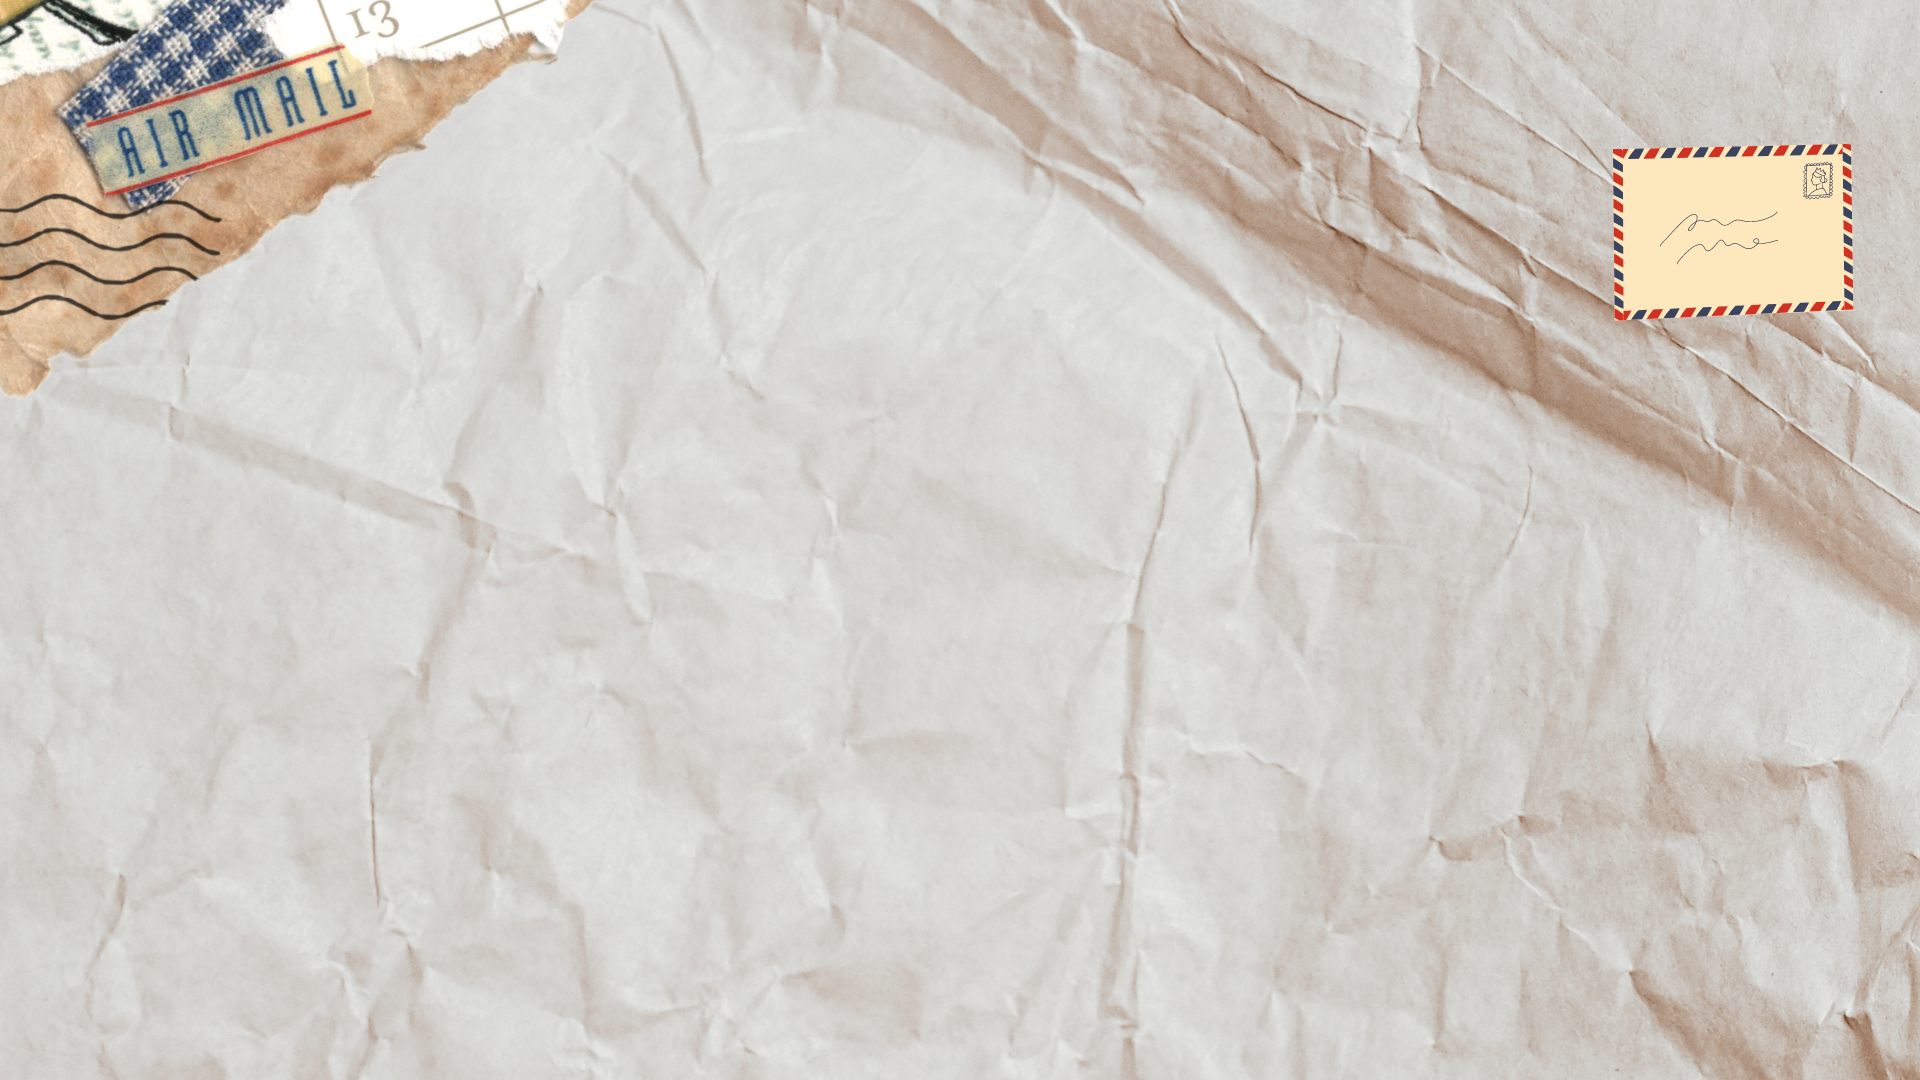
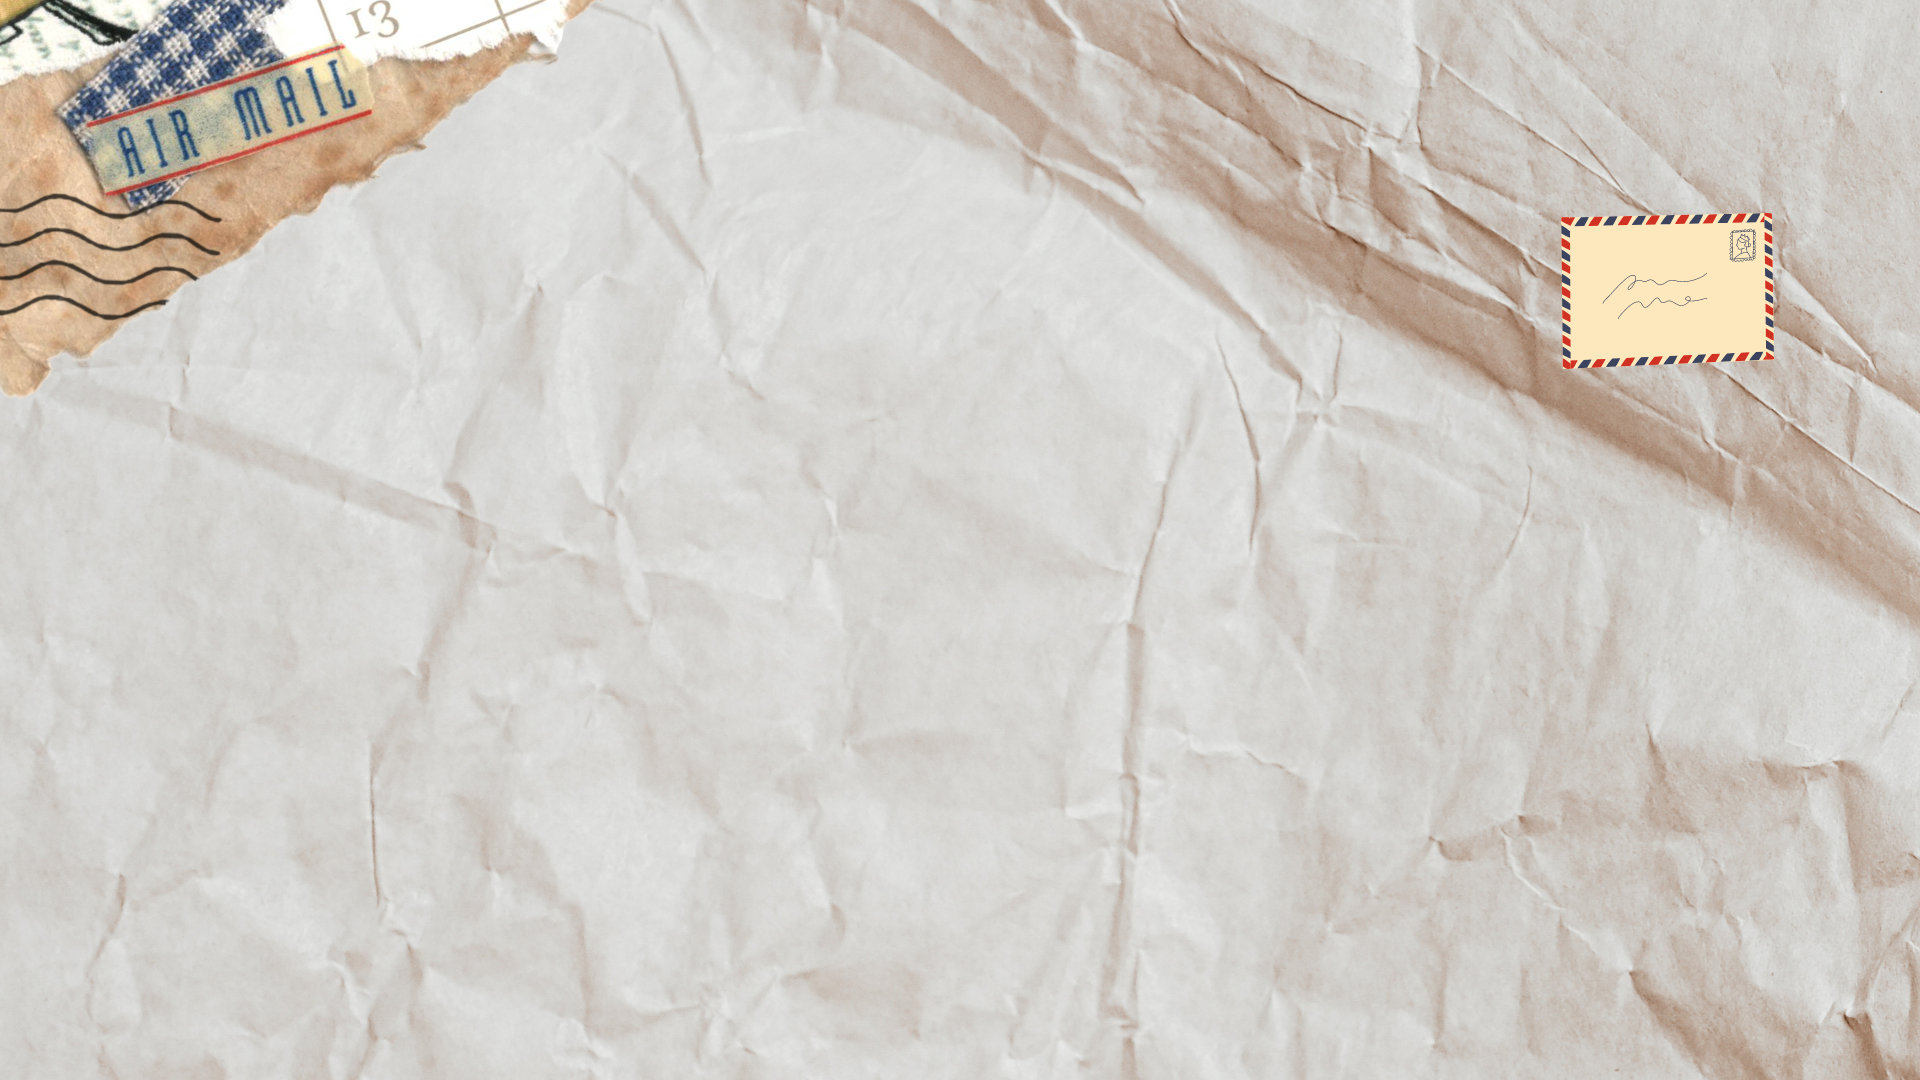
fdf

Changed region(s): [[0.8125, 0.1222, 0.9688, 0.3667]]

diff --git a/assets/style.css b/assets/style.css
@@ -850,12 +850,14 @@ input[type=submit]:hover {
   font-size: 4vw;
 }
 .img-contact{
-  background-image: url(../assets/img/phone.png);
+  background-image: url(../assets/img/postal.png);
   background-repeat: no-repeat;
   background-attachment: fixed;
   background-position: center center;
   background-size: cover;
 }
+
+
 /*MEDIA QUERYS*/
 @media screen and (max-width: 600px){
   .nav-item a{
@@ -927,6 +929,9 @@ input[type=submit]:hover {
   .tornpaper{
     background-image: url(../assets/img/tornpaper.png);
   } */
+  .img-contact{
+    background-image: url(../assets/img/phoneContact.png);
+  }
 }
 @media screen and (min-width: 700px) and (max-width:1000px){
   .span-about{
@@ -958,6 +963,9 @@ input[type=submit]:hover {
   }
   .cont-title {
     font-size: 8vw;
+  }
+  .img-contact{
+    background-image: url(../assets/img/tabletContact.png);
   }
 }
 @media screen 

diff --git a/views/contacto.html b/views/contacto.html
@@ -85,12 +85,12 @@
                 <input type="submit" value="Enviar"  class="boton">
             </form>
         </div>
-        <div class="thankyou hidden">
+        <!-- <div class="thankyou hidden">
             <h1 class="contact-out">
                 Gracias por contactarse.¡Te responderemos cuanto antes!
             </h1>
             <h3 class="back">Volver al <a href="index.html" class="inicio">inicio</a> </h3>
-        </div>
+        </div> -->
     </main>
     <footer class="footer">
         <div class="container">

diff --git a/assets/main.js b/assets/main.js
@@ -19,3 +19,4 @@ async function handleSubmit(event) {
     }
 }
 
+
